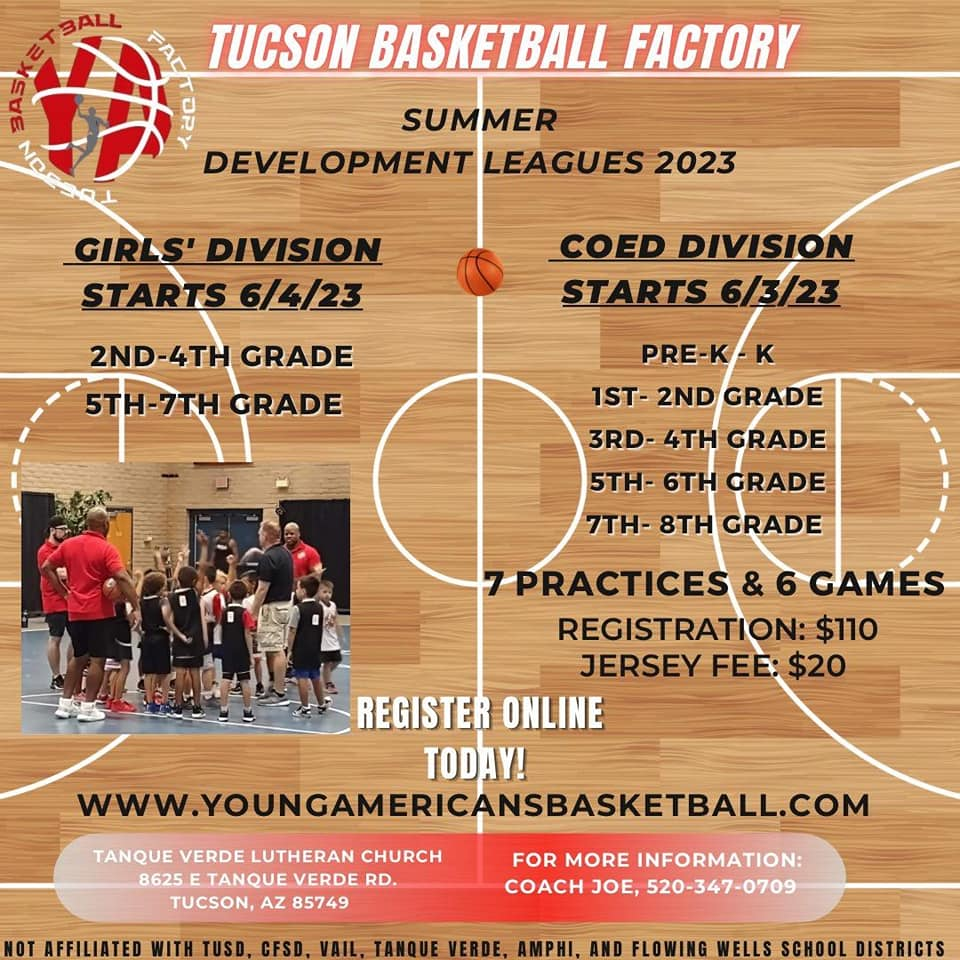
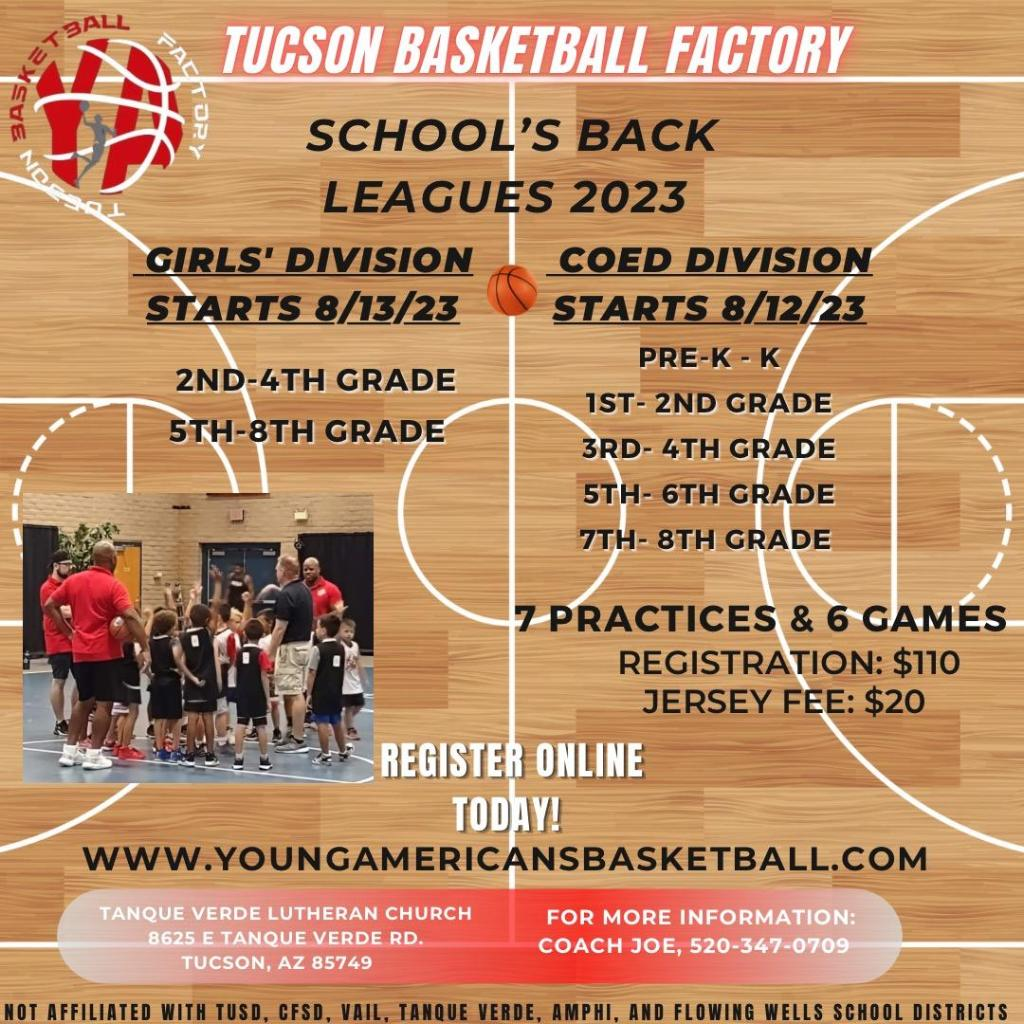
schools out season

diff --git a/index.html b/index.html
@@ -180,7 +180,7 @@
 
                 <br>
 
-                <center><img src="ya_images/winter_23_dev_league_flyer_girls.jpg" class="img_height_poster">
+                <center><img src="ya_images/winter_23_dev_league_flyer_coed.jpg" class="img_height_poster">
 
                 <br><br>
 
@@ -195,9 +195,9 @@
 
                 <p class="justify intro_paragraph gen_paragraph_text pink_font">
                     <b>
-                        Now accepting registrations for the Summer '23 Season and getting started is easy! 
+                        Now accepting registrations and getting started is easy! 
                         Just click the link below to sign up and show up to your Placement Event at the 
-                        following time on Sunday, June 4th, at Tanque Verde Lutheran Church.
+                        following time on Sunday, August 13th, at Tanque Verde Lutheran Church.
                         
                         <ul class="justify intro_paragraph gen_paragraph_text pink_font gen_opacity" style="list-style-type:none;">
                             <center>
@@ -240,9 +240,9 @@
 
                 <p class="justify intro_paragraph gen_paragraph_text orange_text">
                     <b>
-                        Now accepting registrations for the Summer '23 Season and getting started is easy! 
+                        Now accepting registrations and getting started is easy! 
                         Just click the link below to sign up and show up to your Placement Event at the 
-                        following time on Saturday, June 3rd, at Tanque Verde Lutheran Church.
+                        following time on Saturday, August 12th, at Tanque Verde Lutheran Church.
                         
                         <ul class="justify intro_paragraph gen_paragraph_text orange_text gen_opacity" style="list-style-type:none;">
                             <center>
